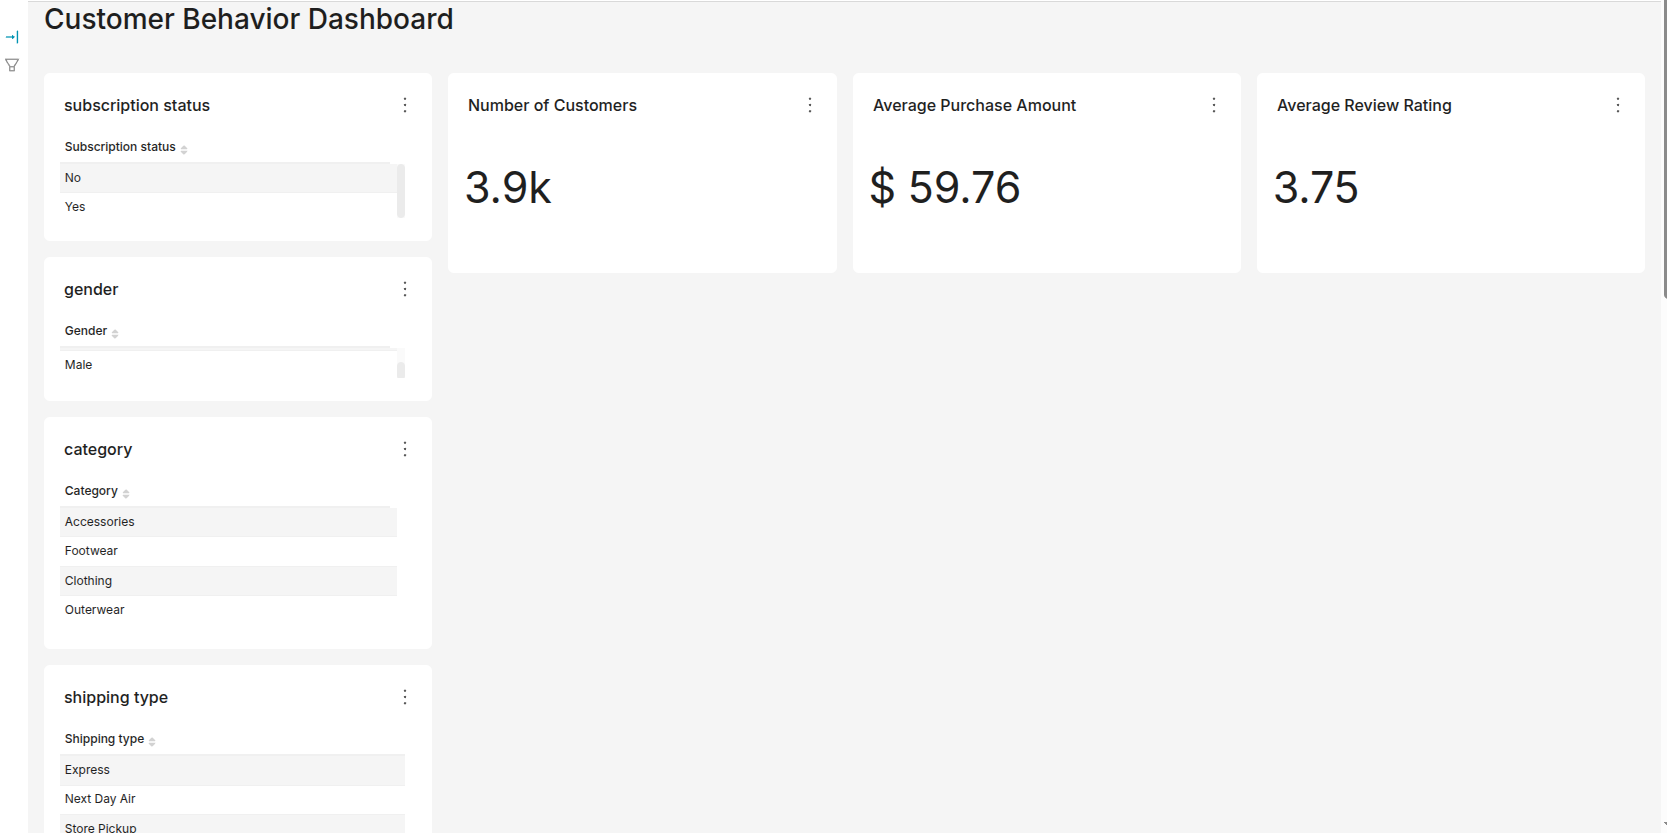
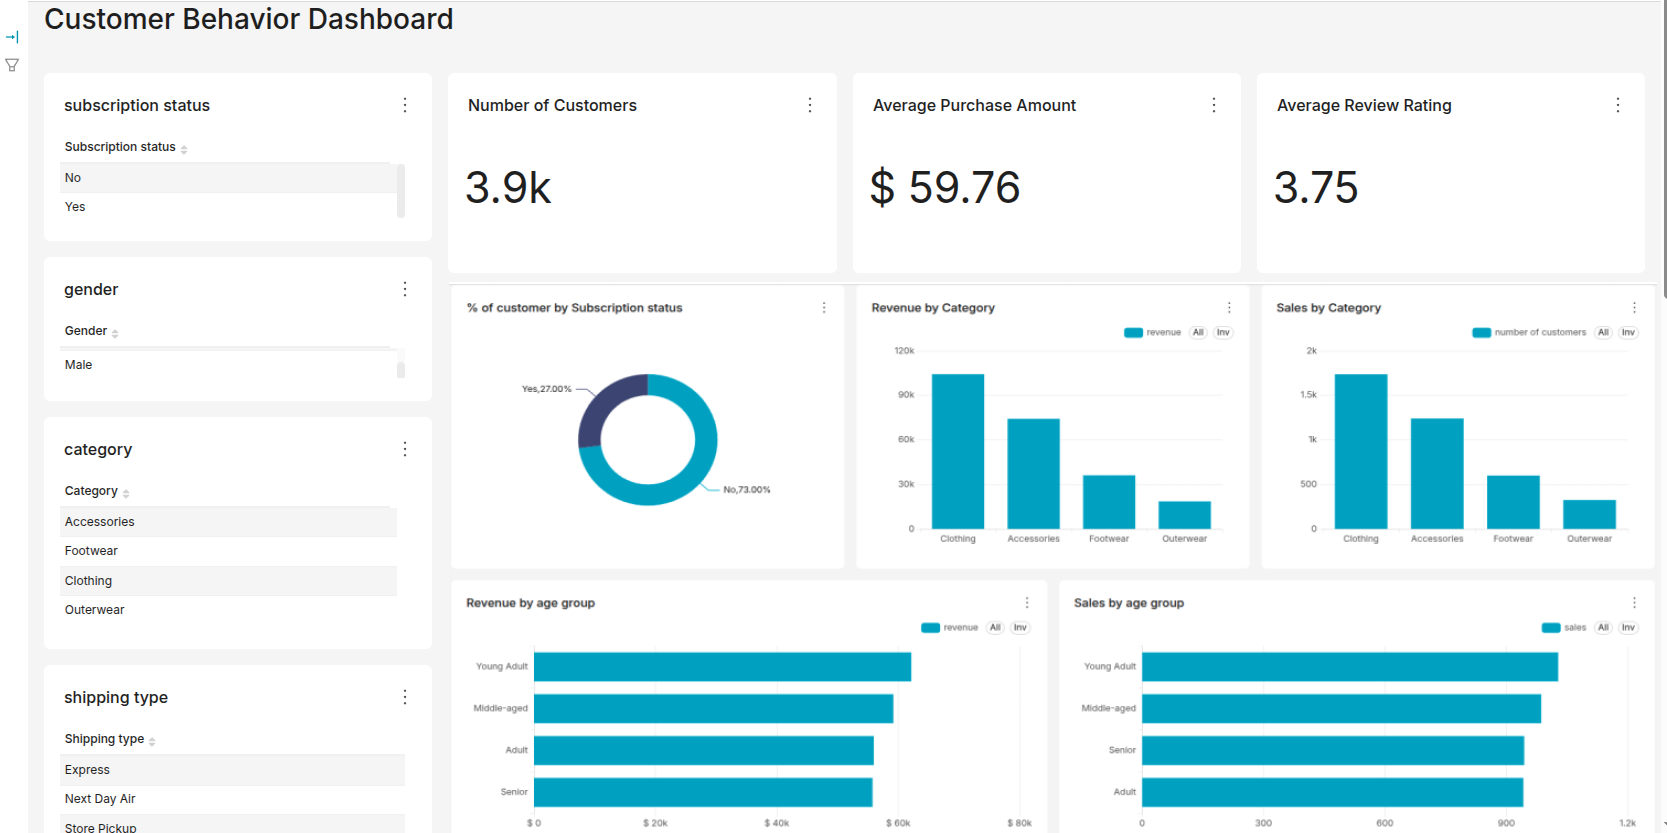
refactor: add README and adjust repo structure

diff --git a/README.md b/README.md
@@ -1,0 +1,26 @@
+# Retail Customer Behavior Analysis & Interactive Dashboard
+
+Transforming retail transaction and customer data into actionable business insights through exploratory data analysis and interactive visualizations. The dashboard provides an overview of key performance indicators (KPIs), including total customers, average purchase amount, and revenue distribution across age groups, product categories, and gender.
+
+It enables users to explore business questions such as: What proportion of customers are subscribers versus non-subscribers? How does revenue vary across age groups? Which product categories contribute the most to total revenue?
+
+Key technical components: Data exploration and analysis using Python and SQL; Customer segmentation and purchasing behavior analysis; Interactive dashboard development for KPI monitoring and business decision support.
+
+**Insted of Use Power BI I decide to use Superset as business intelligence tool**
+Because it is open-source and it can be configured locally with PostgreSQL or other database so this repository cold work as path way for an "stand alone" solution for pratice of: Data exploration and analysis and Interactive dashboard development.
+---
+
+"[Apache Superset](https://superset.apache.org/) is an open-source modern data exploration and visualization platform.
+Superset is fast, lightweight, intuitive, and loaded with options that make it easy 
+for users of all skill sets to explore and visualize their data, from simple line charts
+to highly detailed geospatial charts."
+
+**Funtionaly the Superset dashboard is identical to Power BI. Implemented Dashboard:**
+
+<img src="images/v1dashboard_1.png?raw=true" />
+
+## Set up environment
+
+Check how to set up PostgreSQL and Apache Superset [here](./set-up-postgresql-and-superset.md)
+
+Check the Data exploration and analysis using Python and SQL in [this notebook](./customer-shopping-behavior-analysis.ipynb)

diff --git a/set-up-postgresql-and-superset.md b/set-up-postgresql-and-superset.md
@@ -1,15 +1,47 @@
-# Setting up Superset
+# Set up PostgreSQL and Superset
 
-The aim is to show an step by step for install(via python), cofigure Superset. I am using PostgresSQL. So this guiede assume
-that PostgreSQL is already instaled.
-
-From postgreSQL we will need user with read acess to use in
-Superset.
+In postgreSQL we will need user with read acess to use in Superset.
 
 > [!WARNING]
 > Tutorial for Debian and Ubuntu
 
-## Configure PostgreSQL
+## Install and configure PostgreSQL
+
+Next, I will put the csv inside a Database.
+
+`apt install postgresql`
+
+### Install
+  - Update your package list: `sudo apt update`
+  - Install PostgreSQL and the companion tools: `sudo apt install -y postgresql postgresql-contrib`
+  - Make sure the service is running: `sudo systemctl start postgresql`
+  - Enable it to start automatically on boot: `sudo systemctl enable postgresql`
+
+### Access the Database
+- Switch to the default system user named postgres: `sudo -i -u postgres`
+- Open the SQL command prompt: `psql`
+- Close the prompt when finished: `\q`
+
+### Create Database and User
+- Create a new database: `CREATE DATABASE customer_behavior`;
+- List all databases: `\l`
+- Connect to a specific database: `\c customer_behavior`
+- Create a new user with a password: `CREATE USER <user> WITH ENCRYPTED PASSWORD '<password>'`;
+
+```SQL
+
+-- grant access to user
+GRANT pg_monitor TO <user>;
+
+ALTER USER <user> SET SEARCH_PATH TO postgres,pg_catalog;
+
+GRANT CONNECT ON DATABASE postgres TO <user>;
+
+GRANT USAGE ON SCHEMA pg_catalog TO <user>;
+GRANT SELECT ON ALL TABLES IN SCHEMA pg_catalog TO <user>;
+
+GRANT pg_monitor TO <user>;
+```
 
 ### create an analytic(read only access) role in PostgreSQL
  ```bash 
@@ -58,7 +90,8 @@ Ref [here](https://www.crunchydata.com/blog/creating-a-read-only-postgres-user)
  ```bash 
  sudo -i -u postgres
  ```
- ```psql <dbname>
+ ```bash
+ psql <dbname>
  ```
 
 ```SQL
